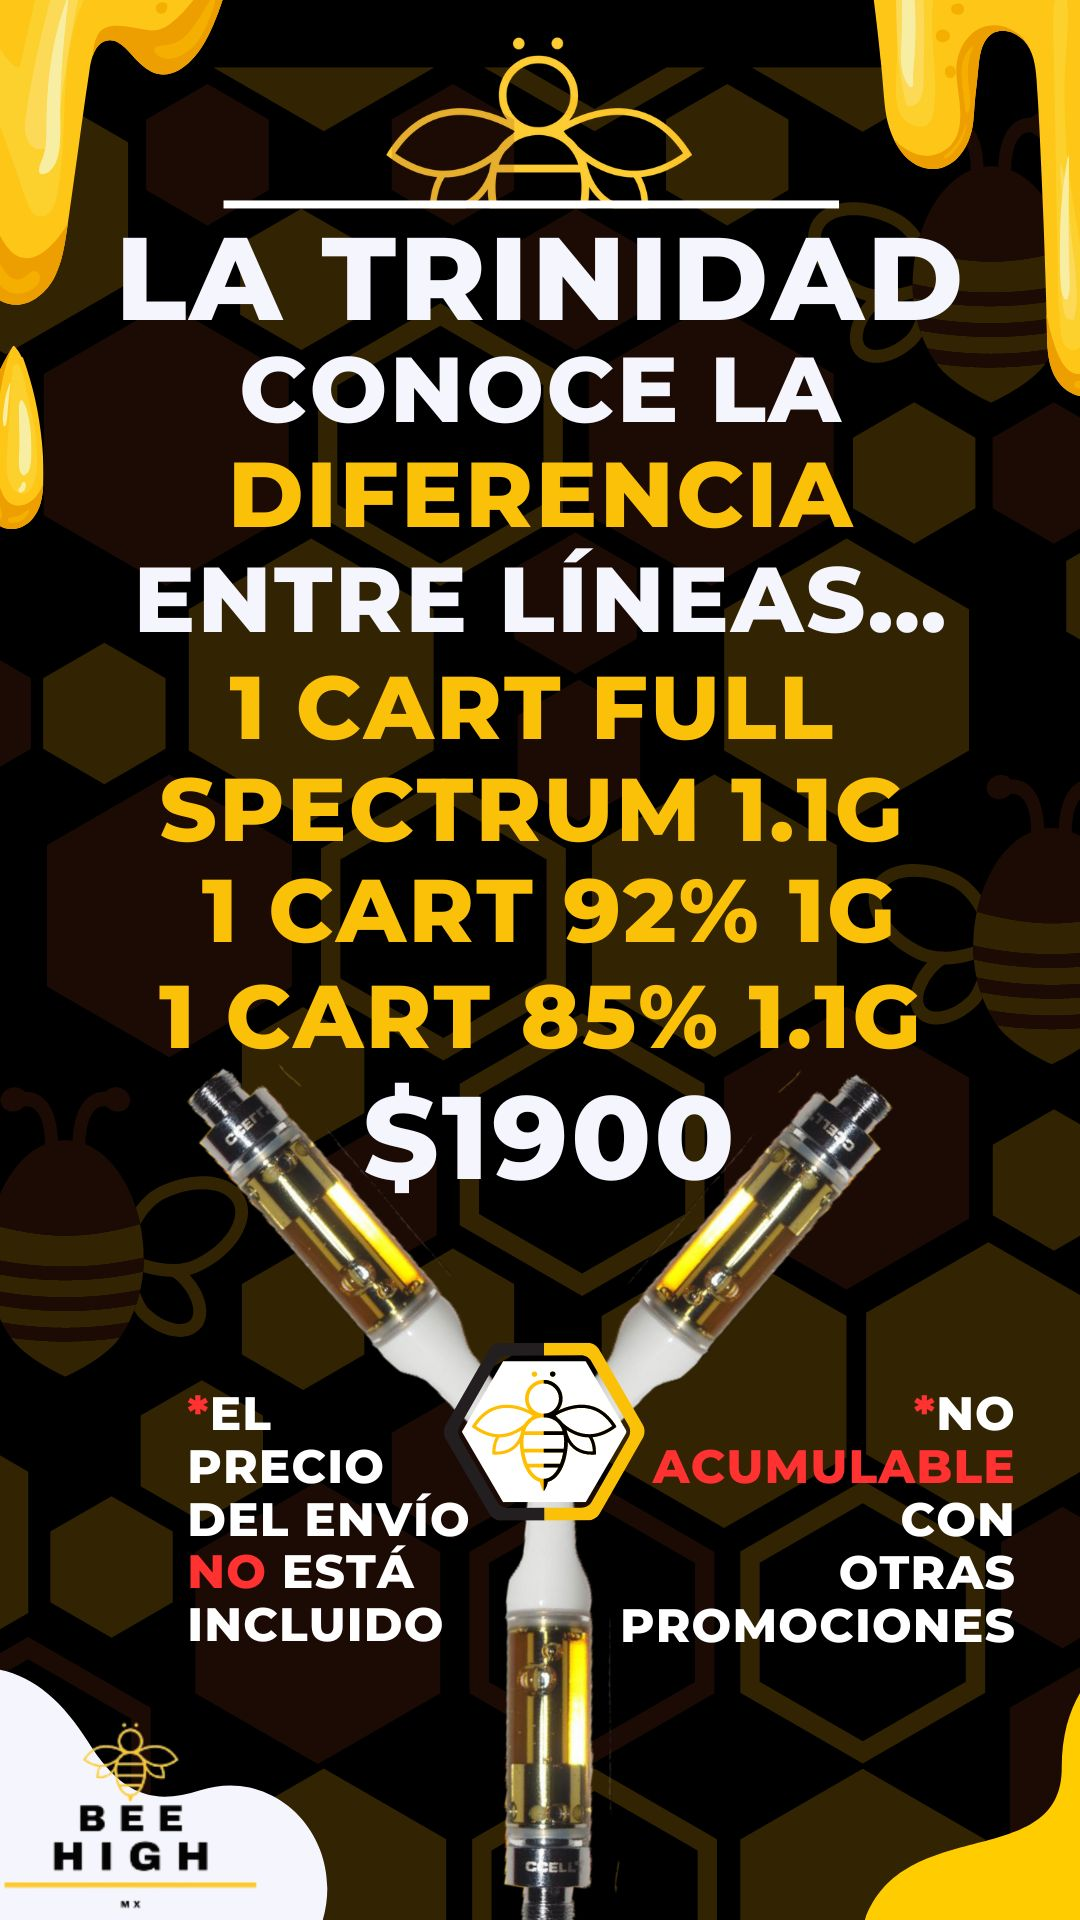
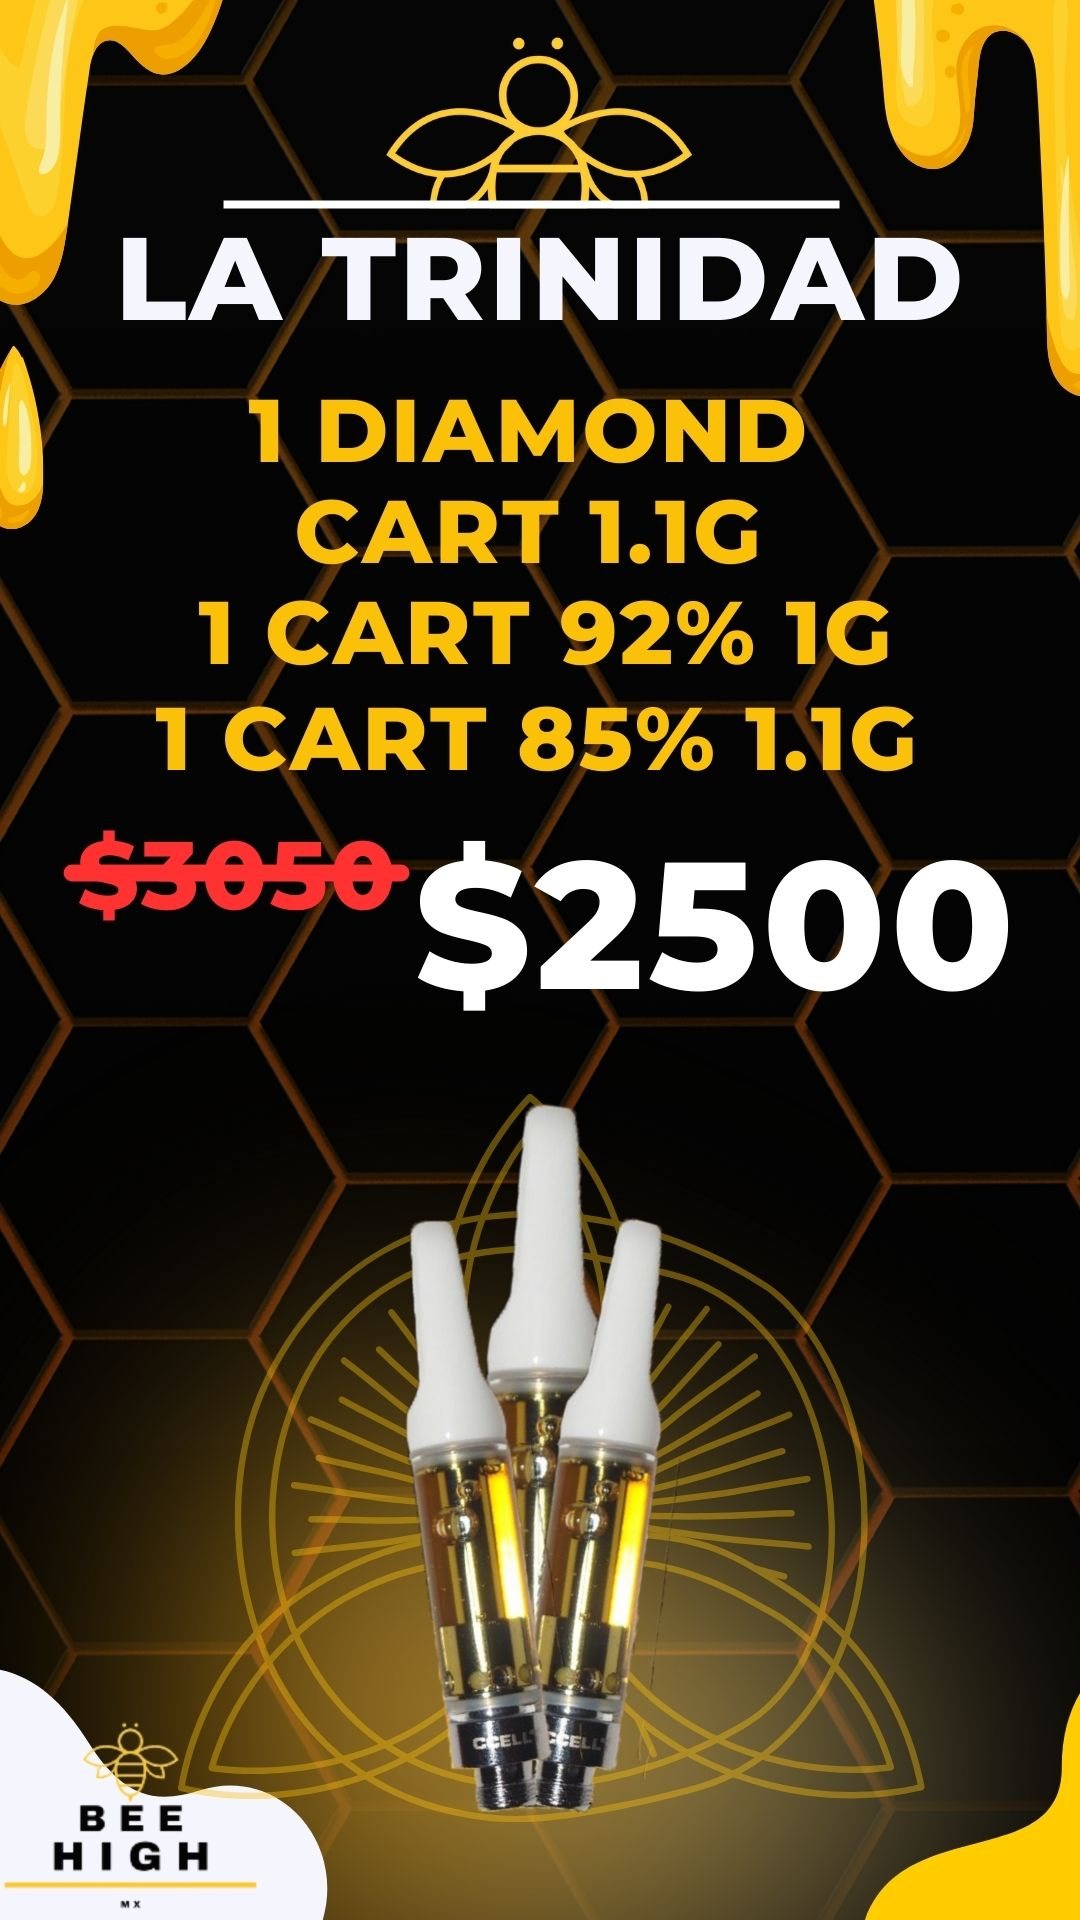
add

diff --git a/home.html b/home.html
@@ -120,6 +120,24 @@
                   </a>
             </article>   
 
+            
+            <article class="slide trinidaad">
+                <a href="https://wa.me/5620388381" target="_blank" class="whatsapp">
+                    <i class="fa-brands fa-whatsapp"></i>
+                  </a>
+            </article>   
+            
+            <article class="slide trio">
+                <a href="https://wa.me/5620388381" target="_blank" class="whatsapp">
+                    <i class="fa-brands fa-whatsapp"></i>
+                  </a>
+            </article>   
+
+
+            
+
+
+            
 
             
           

diff --git a/css/estilos.css b/css/estilos.css
@@ -973,6 +973,23 @@ img{
 
 
 
+.trio{
+    background-image: url("/media/trio.jpg");
+    background-size: contain;
+    background-position: center;
+    background-repeat: no-repeat;
+}
+
+
+
+.trinidaad{
+    background-image: url("/media/trinidad.jpg");
+    background-size: contain;
+    background-position: center;
+    background-repeat: no-repeat;
+}
+
+
 
 
 
